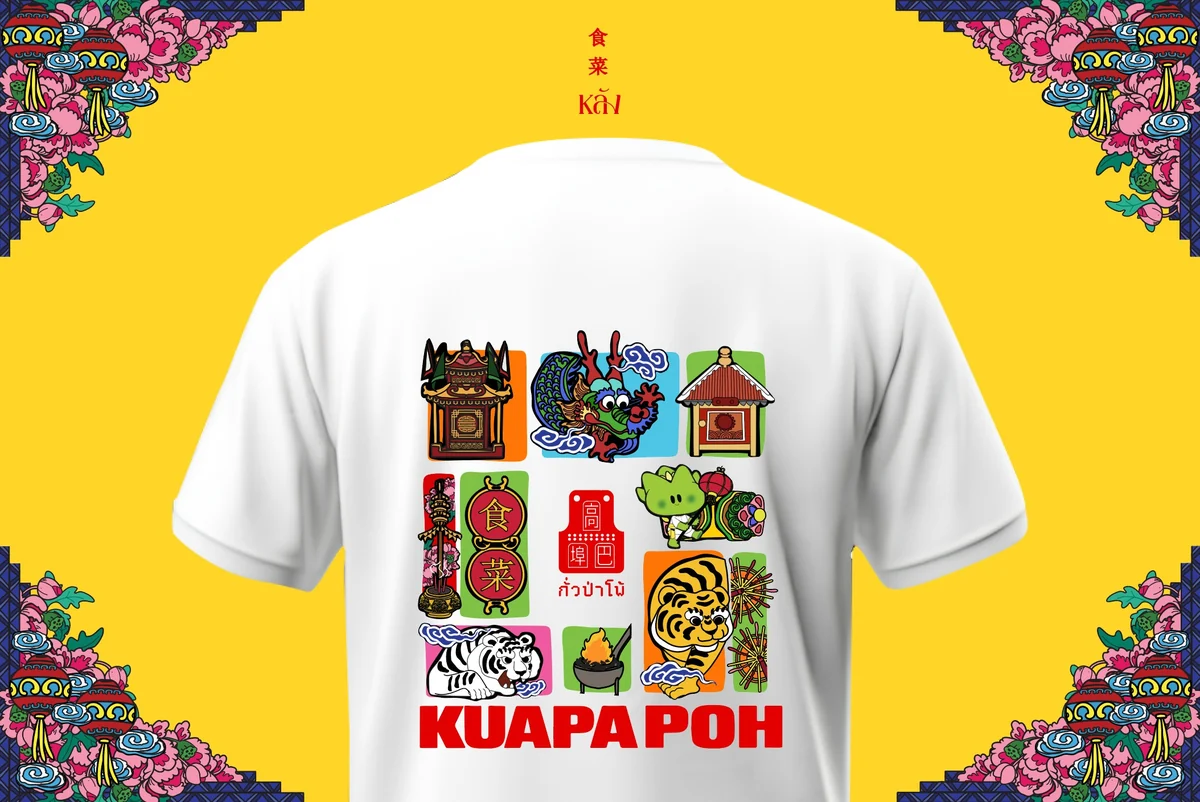
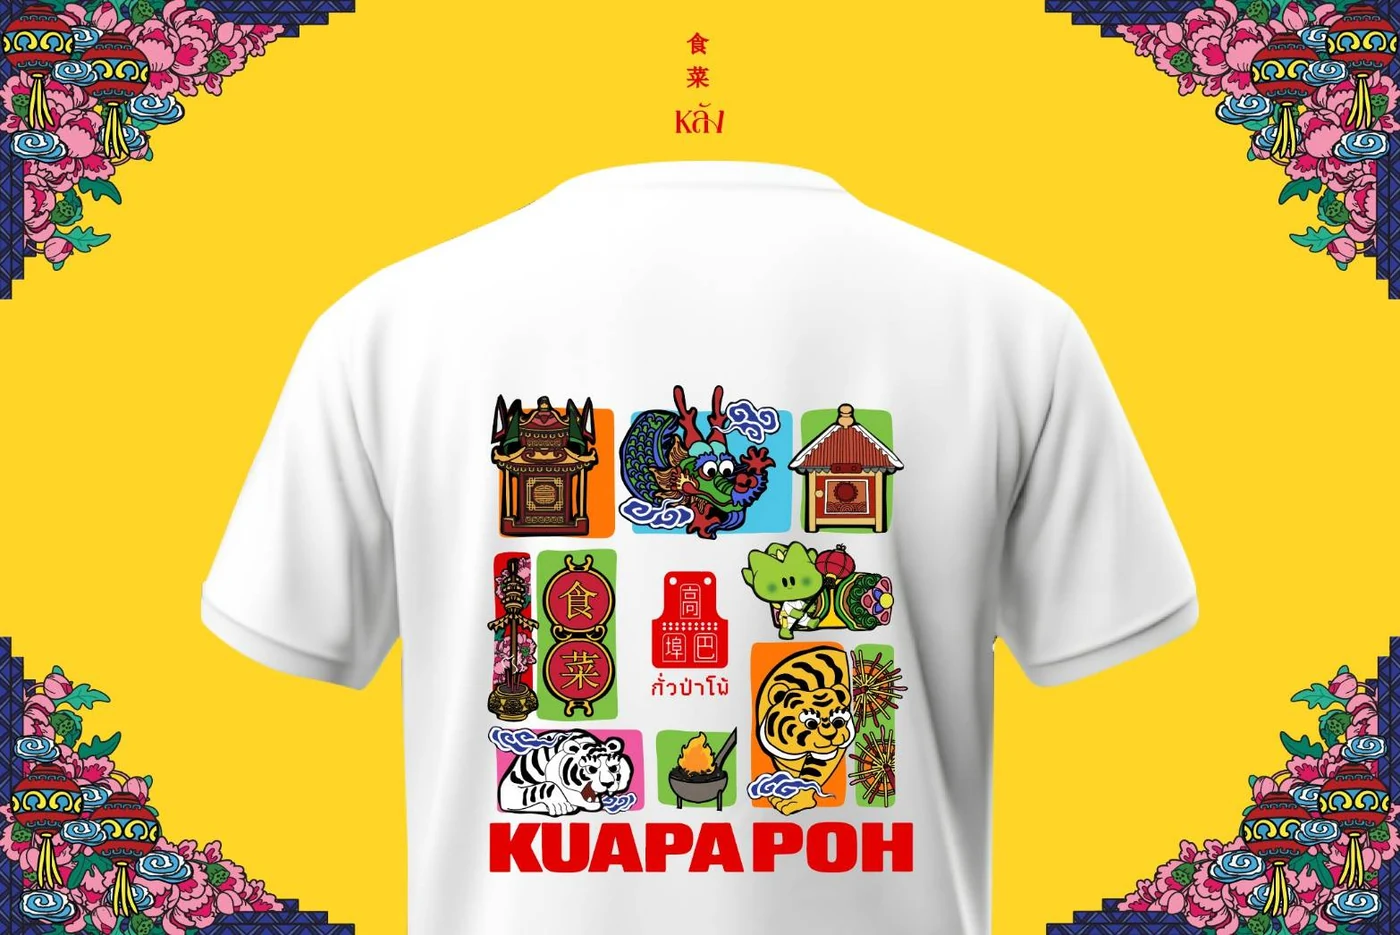
feat(shop): ภาพเสื้อชุดใหม่ที่คมกว่าเดิม + แท็บกรอกมือและสรุปไซส์ในชีต
ภาพ
- เปลี่ยนภาพหน้า/หลังเป็นไฟล์ใหม่ที่ตัวเสื้อเต็มเฟรมและคมกว่าเดิม
- ภาพหลักของการ์ดสินค้าและหน้าพรีออเดอร์ใช้ลายหลังเต็มใบ เห็นลายชัดกว่าเอาสองตัวมาย่อ
- แกลเลอรีในโมดัลเหลือ 4 แท็บ: ด้านหน้า ด้านหลัง ไซส์ผู้ใหญ่ ไซส์เด็ก
- ทำการ์ดลิงก์เฟซบุ๊กใหม่จากภาพชุดนี้ + แก้ width/height ทุกที่ให้ตรงไฟล์จริง กันหน้ากระตุก

Google Sheet
- เพิ่มแท็บ "กรอกมือ" สำหรับออเดอร์ที่มาทาง LINE หรือหน้าร้าน
  กรอกจำนวนต่อไซส์ ระบบคิดจำนวนรวมกับยอดเงินให้เอง มีดรอปดาวน์ช่องทาง/รับของ/สถานะ
- เพิ่มแท็บ "สรุปไซส์" รวมยอดจากทั้งออเดอร์เว็บและกรอกมือ ไว้สั่งโรงงานรอบเดียว
- เพิ่มเมนู "พรีออเดอร์" ในชีต กดอัปเดตสรุปได้เองโดยไม่ต้องเข้า Apps Script

diff --git a/docs/google-sheet-apps-script.js b/docs/google-sheet-apps-script.js
@@ -123,3 +123,169 @@ function reply(data) {
   return ContentService.createTextOutput(JSON.stringify(data))
     .setMimeType(ContentService.MimeType.JSON);
 }
+
+/* ═══════════════════════════════════════════════════════════
+   แท็บกรอกมือ · สำหรับออเดอร์ที่มาทาง LINE หรือหน้าร้าน
+   รันครั้งเดียวจากเมนู เรียกใช้ → setupManualTab
+   ═══════════════════════════════════════════════════════════ */
+
+var MANUAL_SHEET = 'กรอกมือ';
+var SUMMARY_SHEET = 'สรุปไซส์';
+var SIZE_COLS = ['S', 'M', 'L', 'XL', '2XL', 'เด็ก S', 'เด็ก M', 'เด็ก L'];
+var PRICE = 350;
+var SHIPPING = 50;
+
+function setupManualTab() {
+  var ss = SpreadsheetApp.getActive();
+  var sh = ss.getSheetByName(MANUAL_SHEET) || ss.insertSheet(MANUAL_SHEET);
+  sh.clear();
+
+  var headers = ['วันที่', 'ชื่อ-นามสกุล', 'เบอร์โทร', 'ช่องทาง']
+    .concat(SIZE_COLS)
+    .concat(['รวม (ตัว)', 'ค่าส่ง', 'ยอดรวม', 'รับของ', 'ที่อยู่จัดส่ง', 'สถานะ', 'หมายเหตุ']);
+  sh.getRange(1, 1, 1, headers.length).setValues([headers])
+    .setFontWeight('bold').setBackground('#FFE81C').setVerticalAlignment('middle');
+  sh.setFrozenRows(1);
+  sh.setFrozenColumns(2);
+
+  var firstSize = 5;                       // คอลัมน์ E
+  var lastSize = firstSize + SIZE_COLS.length - 1;
+  var colTotalQty = lastSize + 1;
+  var colShipping = colTotalQty + 1;
+  var colTotal = colShipping + 1;
+  var colPickup = colTotal + 1;
+  var colStatus = colTotal + 3;
+
+  // สูตรรวมจำนวนและยอดเงินให้เอง กรอกแค่จำนวนต่อไซส์ก็พอ
+  var rows = 300;
+  var qtyFormulas = [];
+  var totalFormulas = [];
+  for (var i = 0; i < rows; i++) {
+    var r = i + 2;
+    var range = columnLetter(firstSize) + r + ':' + columnLetter(lastSize) + r;
+    qtyFormulas.push(['=IF(COUNTA(' + range + ')=0,"",SUM(' + range + '))']);
+    totalFormulas.push(['=IF(' + columnLetter(colTotalQty) + r + '="","",' +
+      columnLetter(colTotalQty) + r + '*' + PRICE + '+N(' + columnLetter(colShipping) + r + '))']);
+  }
+  sh.getRange(2, colTotalQty, rows, 1).setFormulas(qtyFormulas);
+  sh.getRange(2, colTotal, rows, 1).setFormulas(totalFormulas);
+
+  // ค่าส่ง: เลือกรับของแล้วเติมเอง 0 หรือ 50
+  sh.getRange(2, colShipping, rows, 1).setNote('ใส่ ' + SHIPPING + ' ถ้าส่งไปรษณีย์ · เว้นว่างหรือ 0 ถ้ารับเอง');
+
+  applyList(sh, 2, 4, rows, ['LINE', 'หน้าร้าน', 'โทร', 'เฟซบุ๊ก']);
+  applyList(sh, 2, colPickup, rows, ['รับเองที่บ้าน 78', 'ส่งไปรษณีย์']);
+  applyList(sh, 2, colStatus, rows, ['ใหม่', 'ยืนยันยอด', 'กำลังผลิต', 'ของพร้อม', 'ปิดแล้ว', 'ยกเลิก']);
+
+  sh.getRange(2, 1, rows, 1).setNumberFormat('dd/MM/yyyy');
+  sh.getRange(2, 3, rows, 1).setNumberFormat('@');   // เบอร์โทรเป็นข้อความ 0 ตัวหน้าจะได้ไม่หาย
+  sh.setColumnWidth(1, 95);
+  sh.setColumnWidth(2, 170);
+  for (var c = firstSize; c <= lastSize; c++) sh.setColumnWidth(c, 62);
+
+  buildSummary();
+  SpreadsheetApp.getActive().toast('สร้างแท็บ "' + MANUAL_SHEET + '" และ "' + SUMMARY_SHEET + '" แล้ว');
+}
+
+/* รวมยอดไซส์จากทั้งออเดอร์เว็บและออเดอร์ที่กรอกมือ ไว้ใช้สั่งโรงงานรอบเดียว
+   นับด้วยโค้ด ไม่ใช้สูตรในชีต เพราะฝั่งเว็บเก็บรายการเป็นข้อความ เช่น "L x2 · เด็ก M x1" */
+function buildSummary() {
+  var ss = SpreadsheetApp.getActive();
+  var sh = ss.getSheetByName(SUMMARY_SHEET) || ss.insertSheet(SUMMARY_SHEET);
+  sh.clear();
+
+  var fromWeb = countFromWeb(ss);
+  var fromManual = countFromManual(ss);
+
+  var table = [['ไซส์', 'จากเว็บ', 'กรอกมือ', 'รวม']];
+  var sumWeb = 0;
+  var sumManual = 0;
+  for (var i = 0; i < SIZE_COLS.length; i++) {
+    var size = SIZE_COLS[i];
+    var web = fromWeb[size] || 0;
+    var manual = fromManual[size] || 0;
+    sumWeb += web;
+    sumManual += manual;
+    table.push([size, web, manual, web + manual]);
+  }
+  table.push(['รวมทั้งหมด', sumWeb, sumManual, sumWeb + sumManual]);
+
+  sh.getRange(1, 1, table.length, 4).setValues(table);
+  sh.getRange(1, 1, 1, 4).setFontWeight('bold').setBackground('#FFE81C');
+  sh.getRange(table.length, 1, 1, 4).setFontWeight('bold').setBackground('#E4F7EC');
+  sh.setFrozenRows(1);
+  sh.setColumnWidths(1, 4, 130);
+  sh.getRange(table.length + 2, 1)
+    .setValue('อัปเดตเมื่อ ' + Utilities.formatDate(new Date(), 'Asia/Bangkok', 'dd/MM/yyyy HH:mm') +
+              ' · กดเมนู "พรีออเดอร์ → อัปเดตสรุปไซส์" เพื่อนับใหม่')
+    .setFontColor('#4d5474');
+}
+
+/* แท็บแรก = ออเดอร์จากเว็บ · คอลัมน์ F เก็บรายการไซส์ คอลัมน์ P เก็บสถานะ */
+function countFromWeb(ss) {
+  var sheet = ss.getSheets()[0];
+  var counts = {};
+  var lastRow = sheet.getLastRow();
+  if (lastRow < 2) return counts;
+  var rows = sheet.getRange(2, 1, lastRow - 1, HEADERS.length).getValues();
+  for (var i = 0; i < rows.length; i++) {
+    var items = String(rows[i][5] || '');
+    var status = String(rows[i][15] || '');
+    if (!items || status === 'ยกเลิก') continue;
+    var parts = items.split('·');
+    for (var j = 0; j < parts.length; j++) {
+      var piece = parts[j].trim();
+      var at = piece.lastIndexOf(' x');
+      if (at < 1) continue;
+      var size = piece.substring(0, at).trim();
+      var qty = parseInt(piece.substring(at + 2), 10);
+      if (!qty) continue;
+      counts[size] = (counts[size] || 0) + qty;
+    }
+  }
+  return counts;
+}
+
+/* แท็บกรอกมือ · ช่องไซส์เป็นตัวเลขอยู่แล้ว บวกตรงๆ ได้เลย */
+function countFromManual(ss) {
+  var sheet = ss.getSheetByName(MANUAL_SHEET);
+  var counts = {};
+  if (!sheet) return counts;
+  var lastRow = sheet.getLastRow();
+  if (lastRow < 2) return counts;
+  var firstSize = 5;
+  var values = sheet.getRange(2, firstSize, lastRow - 1, SIZE_COLS.length).getValues();
+  var statuses = sheet.getRange(2, firstSize + SIZE_COLS.length + 5, lastRow - 1, 1).getValues();
+  for (var i = 0; i < values.length; i++) {
+    if (String(statuses[i][0] || '') === 'ยกเลิก') continue;
+    for (var j = 0; j < SIZE_COLS.length; j++) {
+      var qty = Number(values[i][j]) || 0;
+      if (qty) counts[SIZE_COLS[j]] = (counts[SIZE_COLS[j]] || 0) + qty;
+    }
+  }
+  return counts;
+}
+
+/* เมนูในชีต · ทีมงานกดเองได้ ไม่ต้องเข้าหน้า Apps Script */
+function onOpen() {
+  SpreadsheetApp.getUi()
+    .createMenu('พรีออเดอร์')
+    .addItem('อัปเดตสรุปไซส์', 'buildSummary')
+    .addItem('สร้าง/ล้างแท็บกรอกมือใหม่', 'setupManualTab')
+    .addToUi();
+}
+
+function applyList(sheet, row, col, rows, values) {
+  var rule = SpreadsheetApp.newDataValidation().requireValueInList(values, true).build();
+  sheet.getRange(row, col, rows, 1).setDataValidation(rule);
+}
+
+function columnLetter(index) {
+  var letter = '';
+  while (index > 0) {
+    var mod = (index - 1) % 26;
+    letter = String.fromCharCode(65 + mod) + letter;
+    index = Math.floor((index - mod) / 26);
+  }
+  return letter;
+}

diff --git a/index.html b/index.html
@@ -832,7 +832,7 @@ footer .about-en b{display:block;font-size:.9rem;margin-bottom:.2rem}
       <article class="shop-card" data-category="เสื้อผ้า &amp; แฟชั่น">
         <div class="shop-shot" style="cursor:pointer" data-open-modal="modal-je" title="คลิกเพื่อดูลายเสื้อและตารางไซส์">
           <span class="shop-tag">พรีออเดอร์ · เทศกาลกินผัก</span>
-          <img src="images/je-shirt.webp" width="1400" height="933" loading="lazy" decoding="async" alt="เสื้อเทศกาลกินผักกั่วป่าโพ้ ด้านหน้าและด้านหลัง">
+          <img src="images/je-shirt.webp" width="1400" height="935" loading="lazy" decoding="async" alt="ลายหลังเสื้อเทศกาลกินผักกั่วป่าโพ้ ศาลเจ้า มังกร เสือ และเตาไฟ">
           <span class="shop-shot-overlay">🧧 ดูลายเสื้อ</span>
         </div>
         <div class="shop-body">
@@ -917,19 +917,15 @@ footer .about-en b{display:block;font-size:.9rem;margin-bottom:.2rem}
     <div class="dialog-grid">
       <div class="dialog-gallery">
         <div class="dialog-main-img">
-          <img id="je-gallery-main" src="images/je-shirt.webp" width="1400" height="933" loading="lazy" decoding="async" alt="เสื้อเทศกาลกินผักกั่วป่าโพ้ หน้าและหลัง">
+          <img id="je-gallery-main" src="images/je-shirt-front.webp" width="1400" height="934" loading="lazy" decoding="async" alt="เสื้อเทศกาลกินผักกั่วป่าโพ้ ด้านหน้า">
         </div>
         <div class="dialog-thumbs" role="tablist" aria-label="เลือกรูปภาพ">
-          <button type="button" class="dialog-thumb is-active" data-src="images/je-shirt.webp" title="หน้าและหลัง" aria-label="หน้าและหลัง">
-            <img src="images/je-shirt.webp" width="1400" height="933" loading="lazy" decoding="async" alt="หน้าและหลัง">
-            <span class="dialog-thumb-badge">หน้า-หลัง</span>
-          </button>
-          <button type="button" class="dialog-thumb" data-src="images/je-shirt-front.webp" title="ด้านหน้า" aria-label="ด้านหน้า">
-            <img src="images/je-shirt-front.webp" width="1200" height="801" loading="lazy" decoding="async" alt="ด้านหน้า">
+          <button type="button" class="dialog-thumb is-active" data-src="images/je-shirt-front.webp" title="ด้านหน้า" aria-label="ด้านหน้า">
+            <img src="images/je-shirt-front.webp" width="1400" height="934" loading="lazy" decoding="async" alt="ด้านหน้า">
             <span class="dialog-thumb-badge">ด้านหน้า</span>
           </button>
           <button type="button" class="dialog-thumb" data-src="images/je-shirt-back.webp" title="ด้านหลัง" aria-label="ด้านหลัง">
-            <img src="images/je-shirt-back.webp" width="1200" height="802" loading="lazy" decoding="async" alt="ด้านหลัง">
+            <img src="images/je-shirt-back.webp" width="1400" height="935" loading="lazy" decoding="async" alt="ด้านหลัง">
             <span class="dialog-thumb-badge">ด้านหลัง</span>
           </button>
           <button type="button" class="dialog-thumb" data-src="images/je-size-adult.webp" title="ตารางไซส์ผู้ใหญ่" aria-label="ตารางไซส์ผู้ใหญ่">

diff --git a/preorder/index.html b/preorder/index.html
@@ -163,7 +163,7 @@ footer{border-top:2px solid var(--ink);background:var(--yellow);padding:18px 0;f
   <div class="wrap">
     <h1>เสื้อเทศกาลกินผัก<br>กั่วป่าโพ้ · รอบพรีออเดอร์</h1>
     <p class="lede">เสื้อยืดสีขาว ผ้าฝ้าย 100% เกรด 32 คอมบ์ อกซ้ายเป็นตราผ้ากันเปื้อนกั่วป่าโพ้สีแดง ด้านหลังรวมสัญลักษณ์เทศกาลกินผักของตะกั่วป่า ทั้งศาลเจ้า มังกร เสือ และเตาไฟ</p>
-    <div class="shot"><img src="../images/je-shirt.webp" width="1400" height="933" alt="เสื้อเทศกาลกินผักกั่วป่าโพ้ ด้านหน้าและด้านหลัง"></div>
+    <div class="shot"><img src="../images/je-shirt.webp" width="1400" height="935" alt="ลายหลังเสื้อเทศกาลกินผักกั่วป่าโพ้ ศาลเจ้า มังกร เสือ และเตาไฟ"></div>
     <ul class="facts">
       <li>ตัวละ 350 บาท</li>
       <li>ไซส์ผู้ใหญ่ S ถึง 2XL</li>

diff --git a/cms-loader.js b/cms-loader.js
@@ -71,8 +71,8 @@
       meta: 'ผ้าฝ้าย 100% เกรด 32 คอมบ์ · ไซส์ผู้ใหญ่ S-2XL และไซส์เด็ก S-L',
       image: 'images/je-shirt.webp',
       imageWidth: 1400,
-      imageHeight: 933,
-      imageAlt: 'เสื้อเทศกาลกินผักกั่วป่าโพ้ ด้านหน้าและด้านหลัง',
+      imageHeight: 935,
+      imageAlt: 'ลายหลังเสื้อเทศกาลกินผักกั่วป่าโพ้ ศาลเจ้า มังกร เสือ และเตาไฟ',
       hasModal: true,
       modalId: 'modal-je',
       modalCta: '🧧 ดูลายเสื้อ & ตารางไซส์ →',

diff --git a/en/index.html b/en/index.html
@@ -648,7 +648,7 @@ footer p{max-width:72ch}
       <article class="shop-card">
         <div class="shop-shot">
           <span class="shop-tag">Pre-order · Vegetarian Festival</span>
-          <img src="/images/je-shirt.webp" width="1400" height="933" loading="lazy" decoding="async" alt="Kuapapoh Vegetarian Festival tee, front and back">
+          <img src="/images/je-shirt.webp" width="1400" height="935" loading="lazy" decoding="async" alt="Kuapapoh Vegetarian Festival tee, back print">
         </div>
         <div class="shop-body">
           <h3>Vegetarian Festival tee (<span lang="th">เสื้อเทศกาลกินผัก</span>)</h3>
